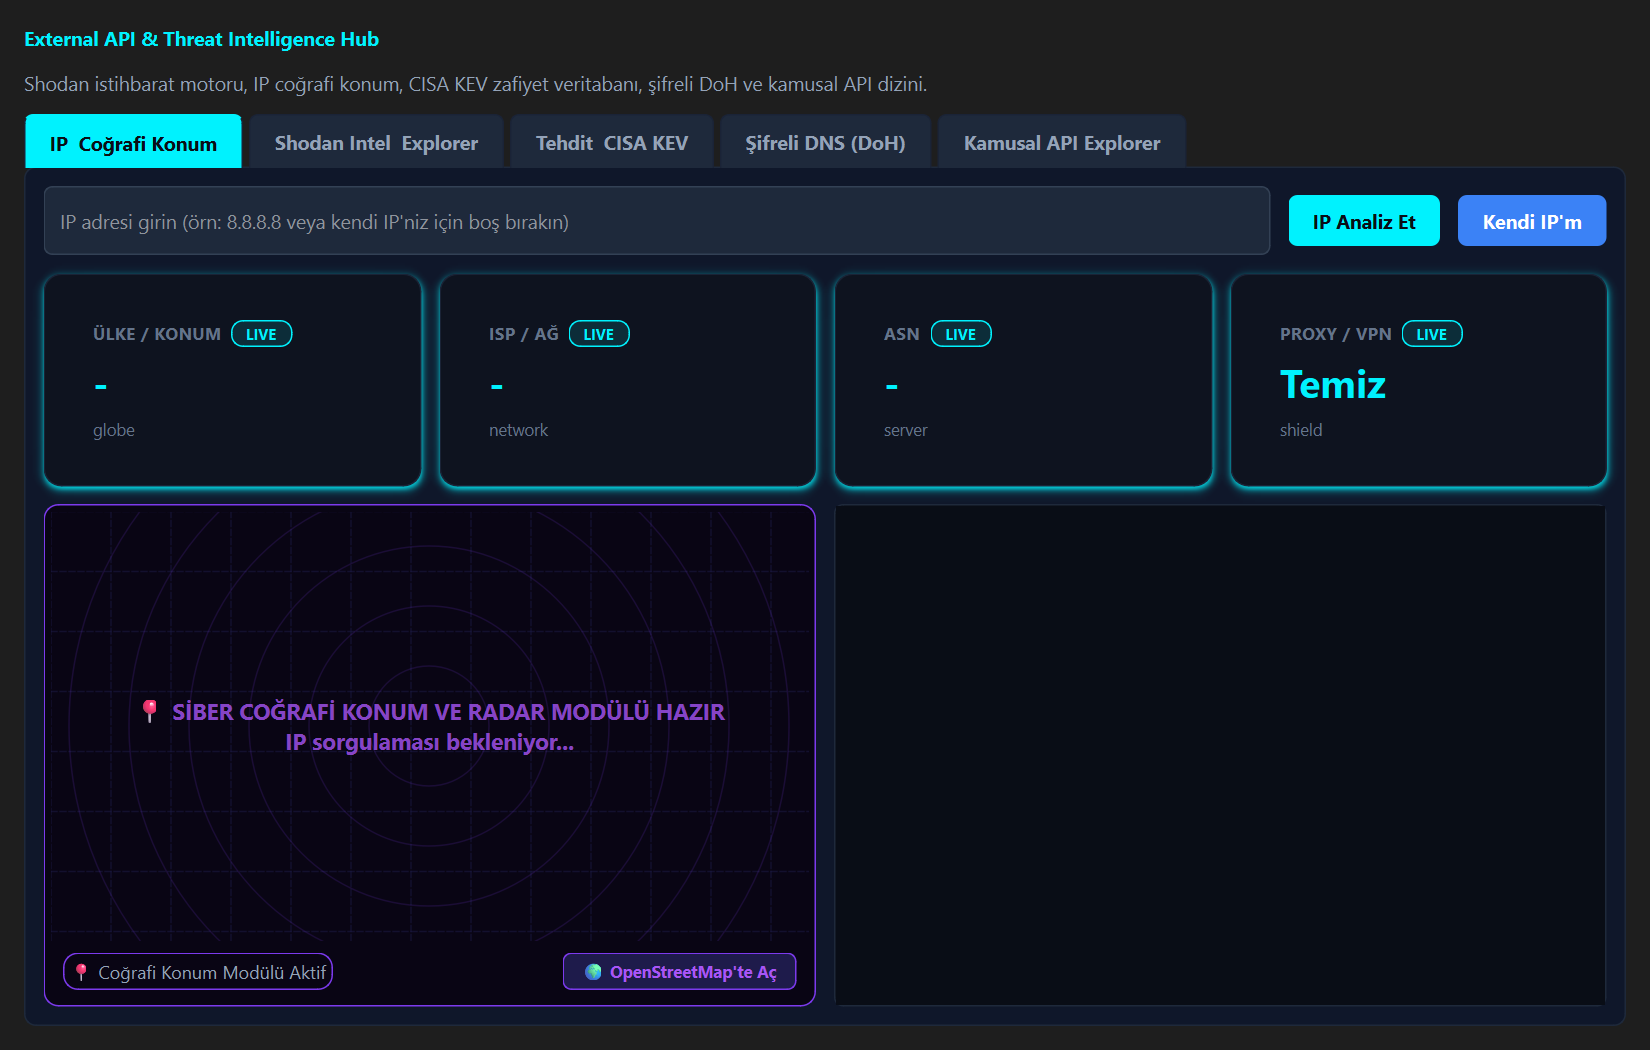
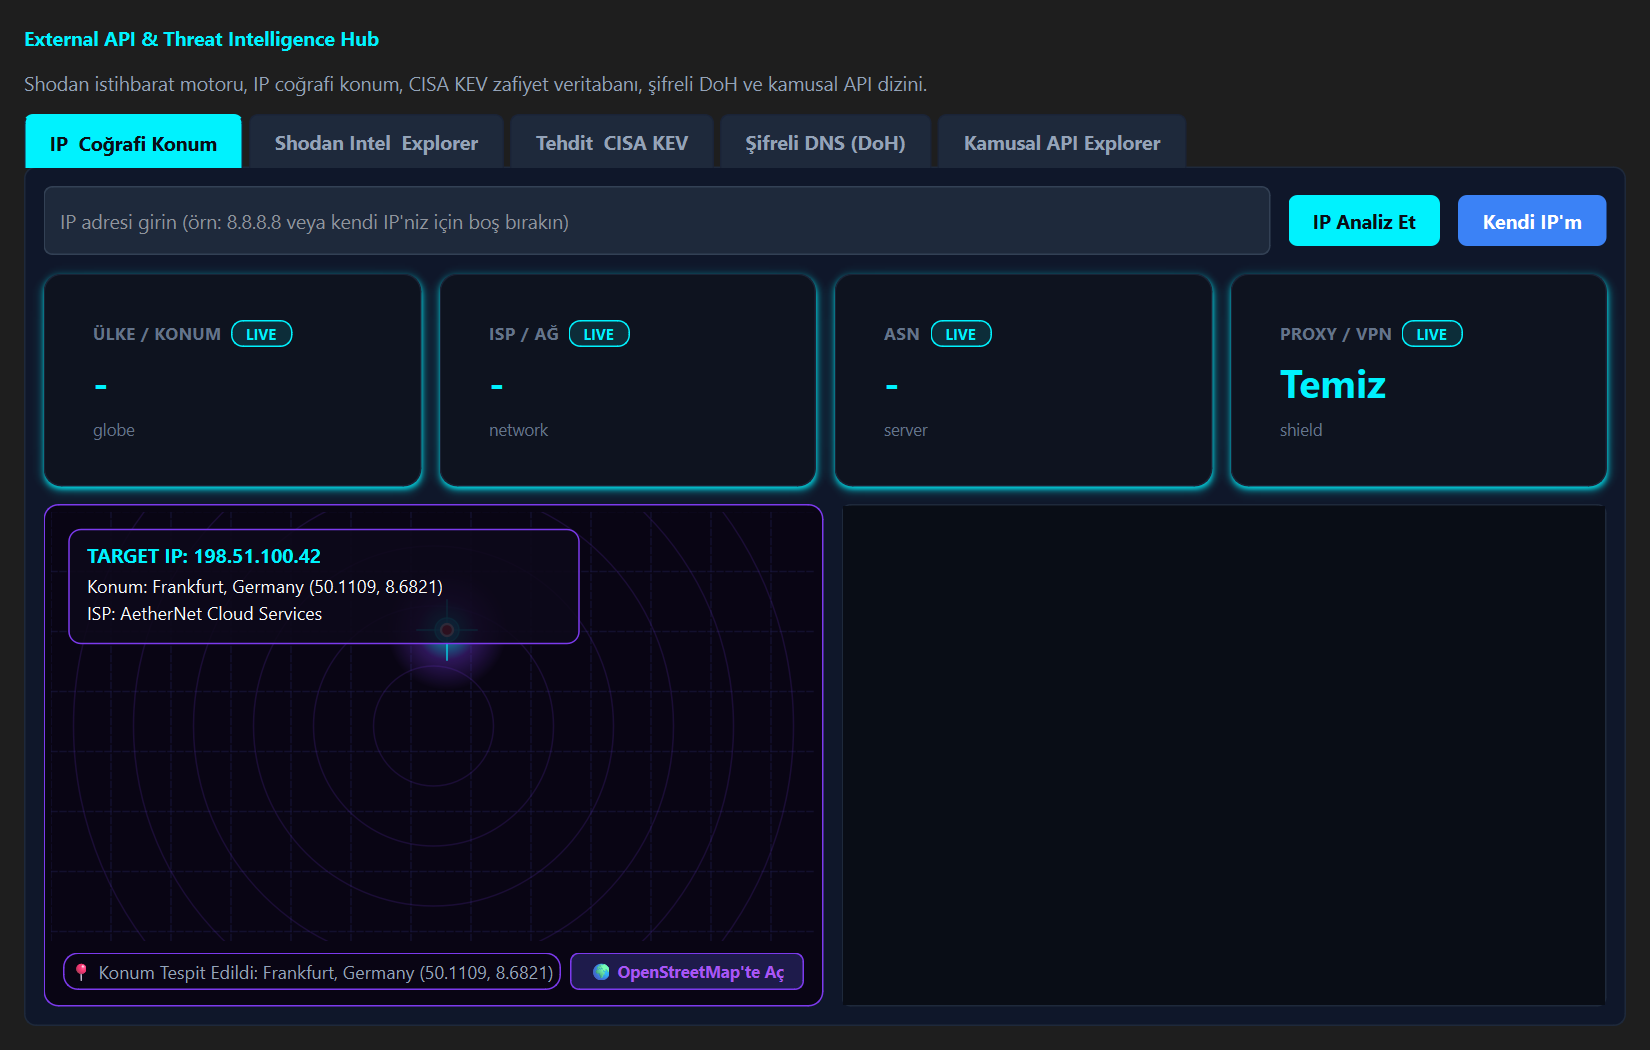
fix(docs): Anonymize all UI screenshots with safe placeholder data (SSID, BSSID, IP, Location)

Changed region(s): [[0.0309, 0.4876, 0.4636, 0.7314], [0.0618, 0.9143, 0.4945, 0.9448], [0.3091, 0.4876, 0.34, 0.5181]]

diff --git a/scripts/capture_ui_screenshots.py b/scripts/capture_ui_screenshots.py
@@ -6,7 +6,13 @@ from PySide6.QtWidgets import QApplication
 # Add src directory to sys.path
 sys.path.insert(0, str(Path(__file__).parent.parent / "src"))
 
-from aethernet.platform import get_platform_adapter
+from aethernet.platform.base import BasePlatformAdapter
+from aethernet.core.models import (
+    NetworkInterfaceInfo,
+    WifiConnectionDetails,
+    WifiProfile,
+    ScannedNetwork,
+)
 from aethernet.gui.i18n_manager import I18nManager
 from aethernet.gui.views.dashboard_view import DashboardView
 from aethernet.gui.views.wifi_view import WifiView
@@ -16,9 +22,87 @@ from aethernet.gui.views.api_hub_view import APIHubView
 from aethernet.gui.views.pentest_view import PentestView
 from aethernet.gui.theme_manager import ThemeManager
 
+class MockDemoAdapter(BasePlatformAdapter):
+    """Anonymized Demo Platform Adapter with safe placeholder data for screenshots."""
+
+    def get_interfaces(self):
+        return [
+            NetworkInterfaceInfo(
+                name="Wi-Fi 6E Ultra",
+                description="Intel(R) Wi-Fi 6E AX211 160MHz",
+                mac_address="00:11:22:33:44:55",
+                is_wifi=True,
+                is_enabled=True,
+                is_connected=True,
+                supported_standards=["802.11a", "802.11b", "802.11g", "802.11n", "802.11ac", "802.11ax"],
+                supported_bands=["2.4 GHz", "5 GHz", "6 GHz"],
+                ipv4_address="192.168.1.105",
+                ipv4_subnet="255.255.255.0",
+            ),
+            NetworkInterfaceInfo(
+                name="Ethernet Gigabit",
+                description="Realtek PCIe GbE Family Controller",
+                mac_address="00:11:22:AA:BB:CC",
+                is_wifi=False,
+                is_enabled=True,
+                is_connected=False,
+                supported_standards=[],
+                supported_bands=[],
+                ipv4_address=None,
+                ipv4_subnet=None,
+            ),
+        ]
+
+    def get_current_connection(self):
+        return WifiConnectionDetails(
+            adapter_name="Wi-Fi 6E Ultra",
+            ssid="AetherNet_Cyber_5G",
+            bssid="00:11:22:33:44:55",
+            state="connected",
+            signal_percent=94,
+            signal_dbm=-48,
+            radio_type="802.11ax (Wi-Fi 6)",
+            channel=36,
+            frequency_ghz=5.18,
+            channel_width_mhz=160,
+            receive_rate_mbps=1201.0,
+            transmit_rate_mbps=1201.0,
+            security_protocol="WPA3-Personal",
+            cipher="CCMP",
+            authentication="WPA3-SAE",
+        )
+
+    def get_saved_profiles(self):
+        return [
+            WifiProfile(name="AetherNet_Cyber_5G", ssid="AetherNet_Cyber_5G", security_type="WPA3-Personal", auto_connect=True),
+            WifiProfile(name="SafeNet_Corporate", ssid="SafeNet_Corporate", security_type="WPA2-Enterprise", auto_connect=True),
+            WifiProfile(name="Lab_Guest_WiFi", ssid="Lab_Guest_WiFi", security_type="WPA2-PSK", auto_connect=False),
+            WifiProfile(name="Home_Fiber_Ultra", ssid="Home_Fiber_Ultra", security_type="WPA3-Personal", auto_connect=True),
+        ]
+
+    def get_profile_password(self, profile_name: str) -> str:
+        return "SafeDemoPass2026!"
+
+    def scan_networks(self):
+        return [
+            ScannedNetwork(ssid="AetherNet_Cyber_5G", bssid="00:11:22:33:44:55", signal_percent=94, signal_dbm=-48, channel=36, band="5 GHz", security="WPA3-Personal", cipher="CCMP"),
+            ScannedNetwork(ssid="SafeNet_Corporate", bssid="00:11:22:AA:BB:11", signal_percent=88, signal_dbm=-52, channel=149, band="5 GHz", security="WPA2-Enterprise", cipher="AES"),
+            ScannedNetwork(ssid="Neighbour_Mesh_2.4G", bssid="00:11:22:BB:CC:22", signal_percent=65, signal_dbm=-68, channel=6, band="2.4 GHz", security="WPA2-PSK", cipher="TKIP"),
+            ScannedNetwork(ssid="IoT_Sensors_Net", bssid="00:11:22:CC:DD:33", signal_percent=45, signal_dbm=-78, channel=1, band="2.4 GHz", security="WPA2-PSK", cipher="AES"),
+        ]
+
+    def connect_profile(self, profile_name: str) -> bool:
+        return True
+
+    def disconnect(self, interface_name: str = "") -> bool:
+        return True
+
+    def set_adapter_state(self, interface_name: str, enable: bool) -> bool:
+        return True
+
 def capture_screenshots():
     app = QApplication.instance() or QApplication(sys.argv)
-    adapter = get_platform_adapter()
+    adapter = MockDemoAdapter()
 
     screenshots_dir = Path("assets/screenshots")
     screenshots_dir.mkdir(parents=True, exist_ok=True)
@@ -37,9 +121,20 @@ def capture_screenshots():
         for name, cls in views_to_capture:
             try:
                 widget = cls(adapter, i18n)
+                # Populate mock location data for API Hub
+                if name == "api_hub":
+                    widget.map_widget.update_location(
+                        lat=50.1109,
+                        lon=8.6821,
+                        ip="198.51.100.42",
+                        city="Frankfurt",
+                        country="Germany",
+                        isp="AetherNet Cloud Services"
+                    )
             except Exception as e:
                 print(f"Skipping {name} ({lang}): {e}")
                 continue
+
             widget.setStyleSheet(ThemeManager.get_theme_stylesheet("cyber_dark"))
             widget.resize(1100, 700)
             widget.show()
@@ -49,7 +144,7 @@ def capture_screenshots():
             pixmap = widget.grab()
             out_file = screenshots_dir / f"{name}_{lang}.png"
             pixmap.save(str(out_file))
-            print(f"[OK] Captured screenshot: {out_file}")
+            print(f"[OK] Captured anonymized screenshot: {out_file}")
             widget.close()
 
 if __name__ == "__main__":
